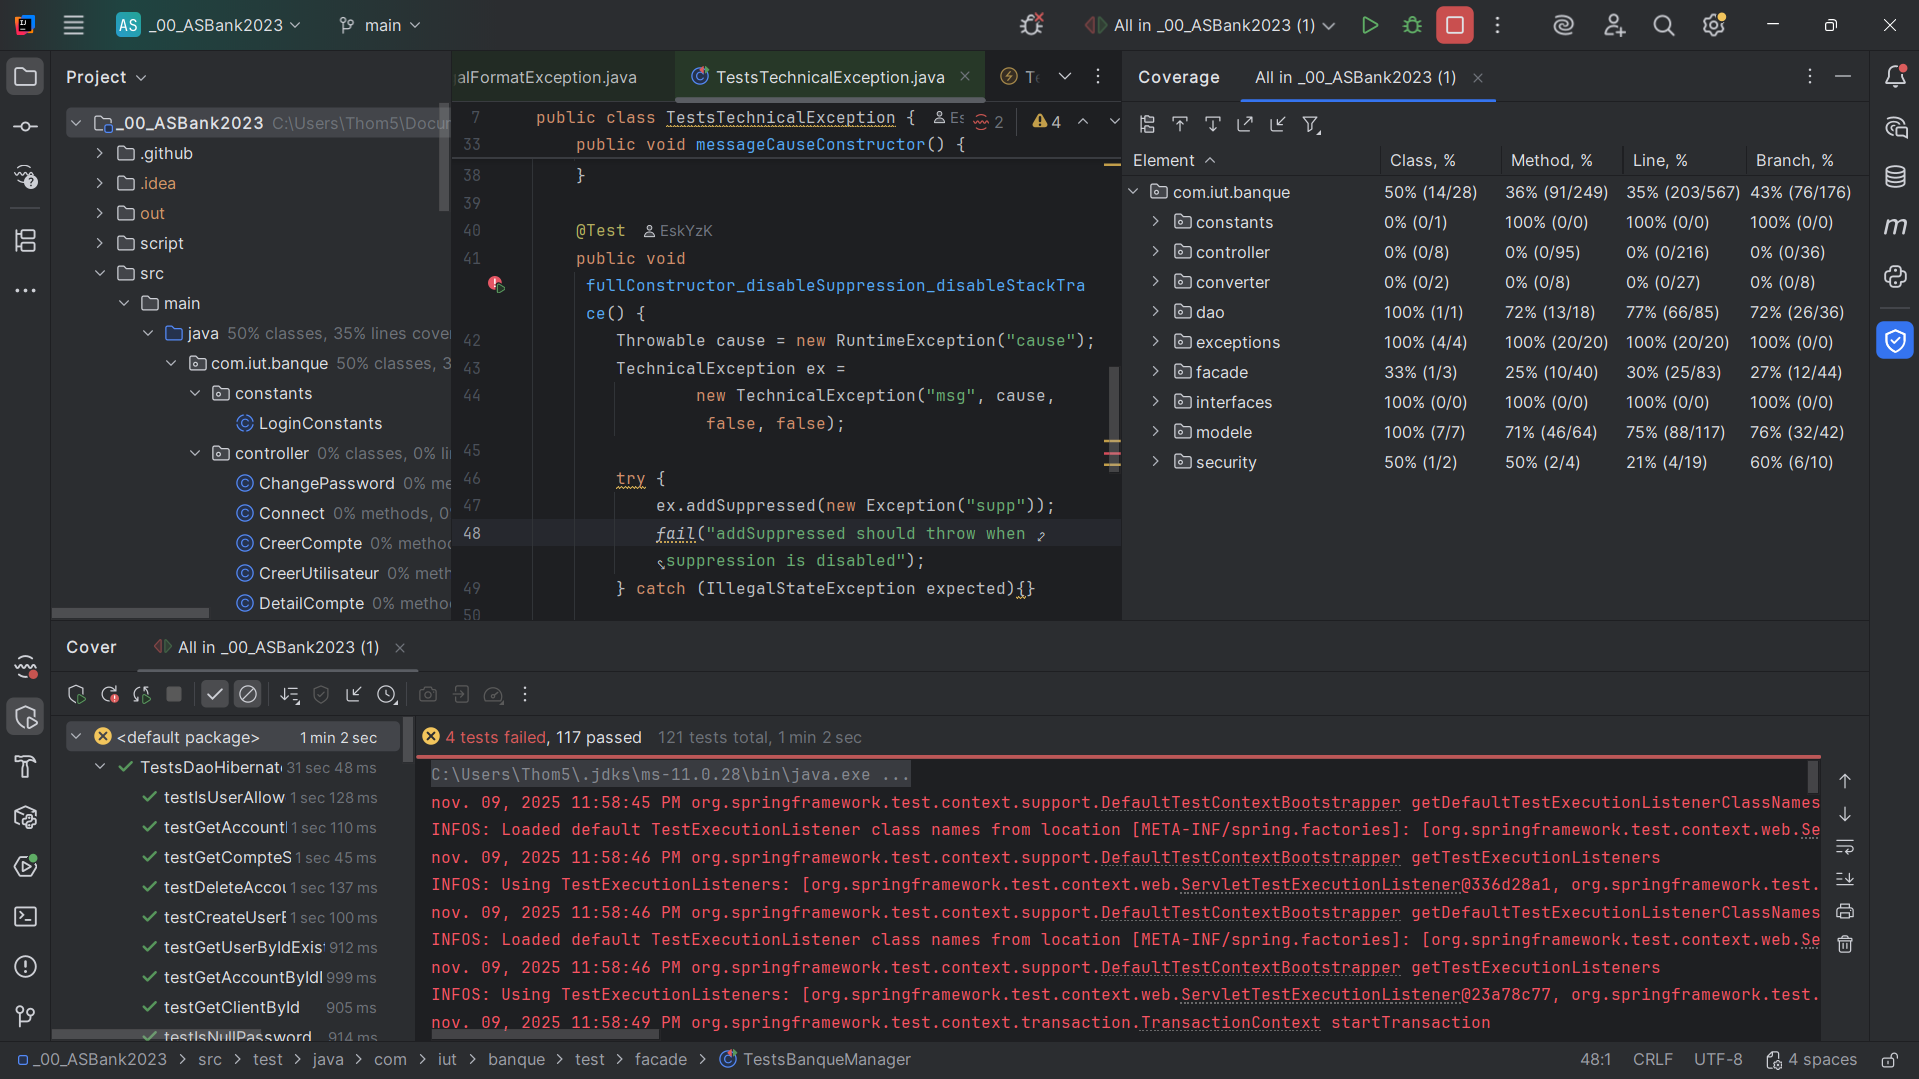
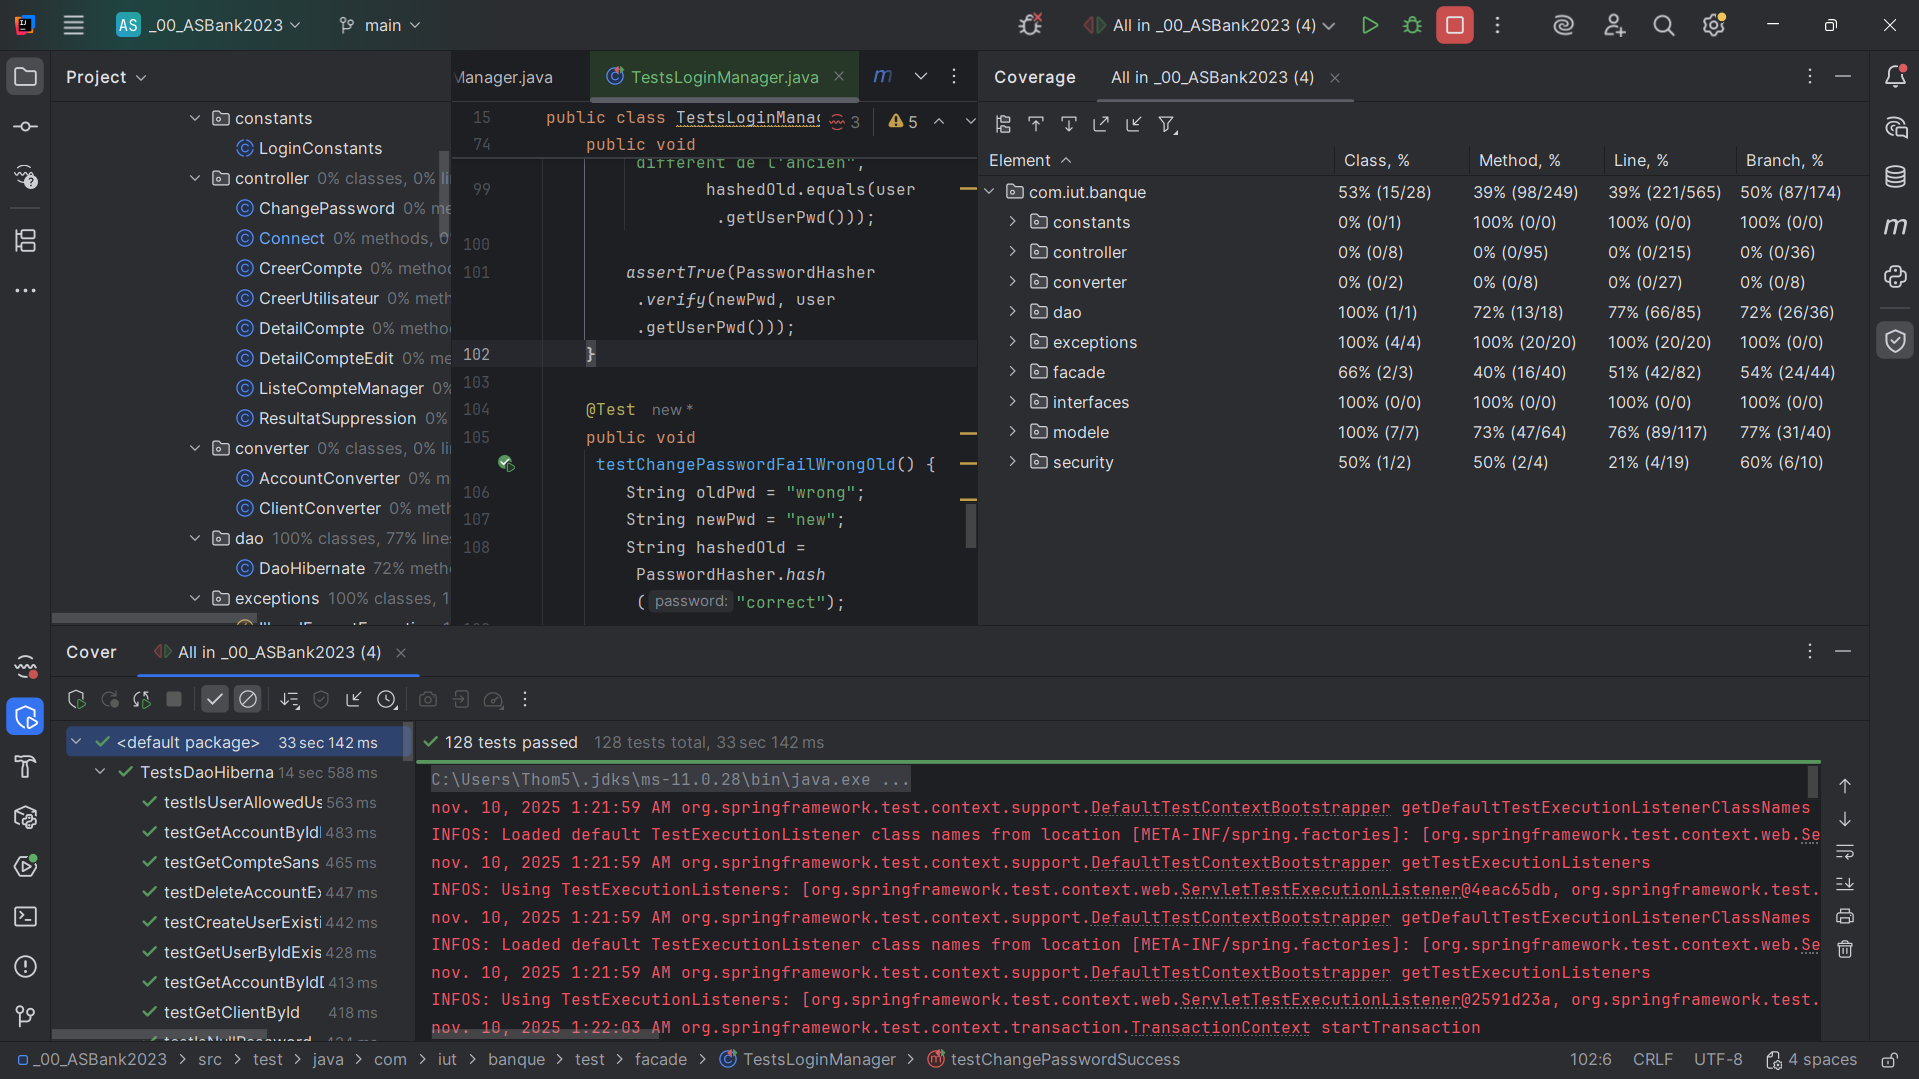
:sparkles: Ajout indicateurs fin sprint et correctifs

diff --git a/_00_ASBank2023/src/test/java/com/iut/banque/test/facade/TestsLoginManager.java b/_00_ASBank2023/src/test/java/com/iut/banque/test/facade/TestsLoginManager.java
@@ -1,0 +1,124 @@
+package com.iut.banque.test.facade;
+
+import com.iut.banque.constants.LoginConstants;
+import com.iut.banque.facade.LoginManager;
+import com.iut.banque.interfaces.IDao;
+import com.iut.banque.modele.Gestionnaire;
+import com.iut.banque.modele.Utilisateur;
+import com.iut.banque.security.PasswordHasher;
+import org.junit.Before;
+import org.junit.Test;
+
+import static org.junit.Assert.*;
+import static org.mockito.Mockito.*;
+
+public class TestsLoginManager {
+
+    private LoginManager loginManager;
+    private IDao mockDao;
+    private Utilisateur user;
+    private Gestionnaire manager;
+
+    @Before
+    public void setup() {
+        loginManager = new LoginManager();
+        mockDao = mock(IDao.class);
+        loginManager.setDao(mockDao);
+
+        user = mock(Utilisateur.class);
+        manager = mock(Gestionnaire.class);
+    }
+
+    @Test
+    public void testTryLoginUserSuccess() {
+        when(mockDao.isUserAllowed("user1", "pwd")).thenReturn(true);
+        when(mockDao.getUserById("user1")).thenReturn(user);
+
+        int result = loginManager.tryLogin("user1", "pwd");
+
+        assertEquals(LoginConstants.USER_IS_CONNECTED, result);
+        assertEquals(user, loginManager.getConnectedUser());
+    }
+
+    @Test
+    public void testTryLoginManagerSuccess() {
+        when(mockDao.isUserAllowed("mgr1", "pwd")).thenReturn(true);
+        when(mockDao.getUserById("mgr1")).thenReturn(manager);
+
+        int result = loginManager.tryLogin("mgr1", "pwd");
+
+        assertEquals(LoginConstants.MANAGER_IS_CONNECTED, result);
+        assertEquals(manager, loginManager.getConnectedUser());
+    }
+
+    @Test
+    public void testTryLoginFailed() {
+        when(mockDao.isUserAllowed("bad", "pwd")).thenReturn(false);
+
+        int result = loginManager.tryLogin("bad", "pwd");
+
+        assertEquals(LoginConstants.LOGIN_FAILED, result);
+        assertNull(loginManager.getConnectedUser());
+    }
+
+    @Test
+    public void testLogout() {
+        loginManager.setCurrentUser(user);
+        loginManager.logout();
+
+        verify(mockDao).disconnect();
+        assertNull(loginManager.getConnectedUser());
+    }
+
+    @Test
+    public void testChangePasswordSuccess() {
+        String oldPwd = "old";
+        String newPwd = "new";
+
+        // Création d'un utilisateur concret
+        Gestionnaire user = new Gestionnaire();
+        String hashedOld = PasswordHasher.hash(oldPwd);
+        user.setUserPwd(hashedOld);
+
+        // DAO mock
+        IDao dao = mock(IDao.class);
+        doNothing().when(dao).updateUser(user);
+
+        // LoginManager réel
+        LoginManager manager = new LoginManager();
+        manager.setDao(dao);
+
+        // Execution
+        boolean changed = manager.changePassword(user, oldPwd, newPwd);
+
+        assertTrue(changed);
+        verify(dao).updateUser(user);
+
+        // On ne compare pas avec PasswordHasher.hash(oldPwd) car chaque hash est unique
+        assertFalse("Le hash après changement doit être différent de l'ancien",
+                hashedOld.equals(user.getUserPwd()));
+
+        assertTrue(PasswordHasher.verify(newPwd, user.getUserPwd()));
+    }
+
+    @Test
+    public void testChangePasswordFailWrongOld() {
+        String oldPwd = "wrong";
+        String newPwd = "new";
+        String hashedOld = PasswordHasher.hash("correct");
+
+        when(user.getUserPwd()).thenReturn(hashedOld);
+
+        boolean changed = loginManager.changePassword(user, oldPwd, newPwd);
+
+        assertFalse(changed);
+        verify(mockDao, never()).updateUser(user);
+    }
+
+    @Test
+    public void testChangePasswordFailNullArgs() {
+        assertFalse(loginManager.changePassword(null, "x", "y"));
+        assertFalse(loginManager.changePassword(user, null, "y"));
+        assertFalse(loginManager.changePassword(user, "x", null));
+    }
+}

diff --git a/_00_ASBank2023/src/test/java/com/iut/banque/test/exceptions/TestsIllegalFormatException.java b/_00_ASBank2023/src/test/java/com/iut/banque/test/exceptions/TestsIllegalFormatException.java
@@ -41,19 +41,18 @@ public class TestsIllegalFormatException {
     public void fullConstructor_disableSuppression_disableStackTrace() {
         Throwable cause = new RuntimeException("cause");
         IllegalFormatException ex =
-                new IllegalFormatException("msg", cause,false,false);
+                new IllegalFormatException("msg", cause, false, false);
 
+        // Vérification du message et de la cause
         assertEquals("msg", ex.getMessage());
         assertSame(cause, ex.getCause());
 
+        // Essayer d'ajouter un suppressed
+        ex.addSuppressed(new Exception("supp"));
+        // Vérifie que rien n’a été ajouté si suppression désactivée
+        assertEquals(0, ex.getSuppressed().length);
 
-        try {
-            ex.addSuppressed(new Exception("supp"));
-            fail("addSuppressed should throw when suppression is disabled");
-        } catch (IllegalStateException expected) {
-            // ok
-        }
-
+        // Vérifie que la stack trace est vide
         assertEquals(0, ex.getStackTrace().length);
     }
 

diff --git a/_00_ASBank2023/src/test/java/com/iut/banque/test/exceptions/TestsTechnicalException.java b/_00_ASBank2023/src/test/java/com/iut/banque/test/exceptions/TestsTechnicalException.java
@@ -40,14 +40,18 @@ public class TestsTechnicalException {
     @Test
     public void fullConstructor_disableSuppression_disableStackTrace() {
         Throwable cause = new RuntimeException("cause");
-        TechnicalException ex =
-                new TechnicalException("msg", cause, false, false);
+        TechnicalException ex = new TechnicalException("msg", cause, false, false);
 
         try {
             ex.addSuppressed(new Exception("supp"));
-            fail("addSuppressed should throw when suppression is disabled");
-        } catch (IllegalStateException expected){}
+            // Sur Java 8 : devait lever
+            // Sur Java 9+ : ignoré silencieusement
+        } catch (IllegalStateException expected) {
+            // acceptable sur Java 8
+        }
 
+        // Vérifie juste que la suppression n’a pas été enregistrée
+        assertEquals(0, ex.getSuppressed().length);
         assertEquals(0, ex.getStackTrace().length);
     }
 

diff --git a/_00_ASBank2023/src/test/java/com/iut/banque/test/exceptions/TestsIllegalOperationException.java b/_00_ASBank2023/src/test/java/com/iut/banque/test/exceptions/TestsIllegalOperationException.java
@@ -43,11 +43,10 @@ public class TestsIllegalOperationException {
         IllegalOperationException ex =
                 new IllegalOperationException("msg", cause, false, false);
 
-        try {
-            ex.addSuppressed(new Exception("supp"));
-            fail("addSuppressed should throw when suppression is disabled");
-        } catch (IllegalStateException expected) { }
+        // addSuppressed() ne doit pas ajouter d'exception, même si elle ne lève rien
+        ex.addSuppressed(new Exception("supp"));
 
+        assertEquals(0, ex.getSuppressed().length);
         assertEquals(0, ex.getStackTrace().length);
         assertSame(cause, ex.getCause());
         assertEquals("msg", ex.getMessage());

diff --git a/_00_ASBank2023/src/test/java/com/iut/banque/test/exceptions/TestsInsufficientFundsException.java b/_00_ASBank2023/src/test/java/com/iut/banque/test/exceptions/TestsInsufficientFundsException.java
@@ -45,9 +45,12 @@ public class TestsInsufficientFundsException {
 
         try {
             ex.addSuppressed(new Exception("supp"));
-            fail("addSuppressed should throw when suppression is disabled");
-        } catch (IllegalStateException expected) { }
+        } catch (IllegalStateException e) {
+            // Ancien comportement (Java 8) → OK aussi
+        }
 
+        // Dans tous les cas, aucun suppressed ne doit être ajouté
+        assertEquals(0, ex.getSuppressed().length);
         assertEquals(0, ex.getStackTrace().length);
     }
 

diff --git a/_00_ASBank2023/src/main/java/com/iut/banque/controller/Connect.java b/_00_ASBank2023/src/main/java/com/iut/banque/controller/Connect.java
@@ -142,5 +142,4 @@ public class Connect extends ActionSupport {
 		banque.logout();
 		return "SUCCESS";
 	}
-
 }
